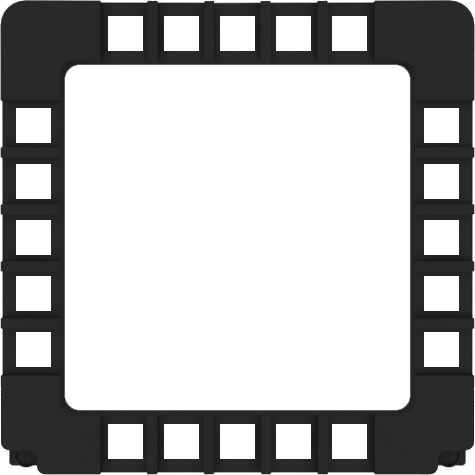
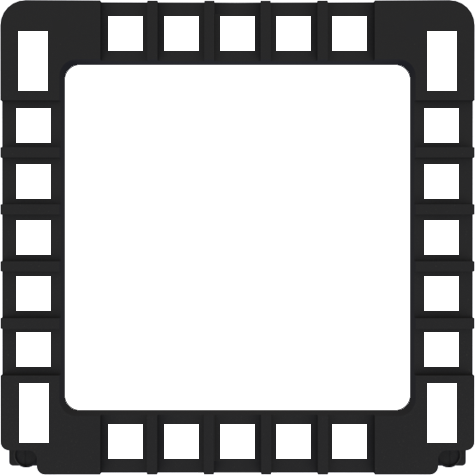
Falcon Interface - Added MFD Rockers

diff --git a/HeliosFalcon/Gauges/MFD/MFD.cs b/HeliosFalcon/Gauges/MFD/MFD.cs
@@ -47,6 +47,10 @@ namespace GadrocsWorkshop.Helios.Gauges.Falcon.MFD
 		private GaugeImage _buttonOSB18;
 		private GaugeImage _buttonOSB19;
 		private GaugeImage _buttonOSB20;
+		private GaugeImage _rockerGAIN;
+		private GaugeImage _rockerSYM;
+		private GaugeImage _rockerBRT;
+		private GaugeImage _rockerCON;
 
 		private HeliosTrigger _buttonOSB01Trigger;
 		private HeliosTrigger _buttonOSB02Trigger;
@@ -68,6 +72,12 @@ namespace GadrocsWorkshop.Helios.Gauges.Falcon.MFD
 		private HeliosTrigger _buttonOSB18Trigger;
 		private HeliosTrigger _buttonOSB19Trigger;
 		private HeliosTrigger _buttonOSB20Trigger;
+		private HeliosTrigger _rockerGAINUpTrigger;
+		private HeliosTrigger _rockerGAINDownTrigger;
+		private HeliosTrigger _rockerSYMUpTrigger;
+		private HeliosTrigger _rockerSYMDownTrigger;
+		private HeliosTrigger _rockerBRTUpTrigger;
+		private HeliosTrigger _rockerBRTDownTrigger;
 
 		Rect _rectButtonOSB01 = new Rect(107, 15, 37, 37);
 		Rect _rectButtonOSB02 = new Rect(163, 15, 37, 37);
@@ -89,6 +99,18 @@ namespace GadrocsWorkshop.Helios.Gauges.Falcon.MFD
 		Rect _rectButtonOSB18 = new Rect(15, 219, 37, 37);
 		Rect _rectButtonOSB19 = new Rect(15, 275, 37, 37);
 		Rect _rectButtonOSB20 = new Rect(15, 331, 37, 37);
+		Rect _rectRockerGAINUp = new Rect(11, 23, 45, 35);
+		Rect _rectRockerGAINCenter = new Rect(11, 23, 45, 75);
+		Rect _rectRockerGAINDown = new Rect(11, 63, 45, 35);
+		Rect _rectRockerSYMUp = new Rect(419, 23, 45, 35);
+		Rect _rectRockerSYMCenter = new Rect(419, 23, 45, 75);
+		Rect _rectRockerSYMDown = new Rect(419, 63, 45, 35);
+		Rect _rectRockerBRTUp = new Rect(11, 375, 45, 35);
+		Rect _rectRockerBRTCenter = new Rect(11, 375, 45, 75);
+		Rect _rectRockerBRTDown = new Rect(11, 415, 45, 35);
+		Rect _rectRockerCONUp = new Rect(419, 375, 45, 35);
+		Rect _rectRockerCONCenter = new Rect(419, 375, 45, 75);
+		Rect _rectRockerCONDown = new Rect(419, 415, 45, 35);
 
 		private const string _backplateOffImage = "{HeliosFalcon}/Gauges/MFD/mfd_backplate_off.xaml";
 		private const string _backplateDimImage = "{HeliosFalcon}/Gauges/MFD/mfd_backplate_dim.xaml";
@@ -96,6 +118,18 @@ namespace GadrocsWorkshop.Helios.Gauges.Falcon.MFD
 		private const string _faceplateImage = "{HeliosFalcon}/Gauges/MFD/mfd_faceplate.png";
 		private const string _buttonImage = "{HeliosFalcon}/Gauges/MFD/mfd_button.png";
 		private const string _buttonPressImage = "{HeliosFalcon}/Gauges/MFD/mfd_button_press.png";
+		private const string _rockerGAINUpImage = "{HeliosFalcon}/Gauges/MFD/mfd_rocker_gain_up.png";
+		private const string _rockerGAINCenterImage = "{HeliosFalcon}/Gauges/MFD/mfd_rocker_gain_center.png";
+		private const string _rockerGAINDownImage = "{HeliosFalcon}/Gauges/MFD/mfd_rocker_gain_down.png";
+		private const string _rockerSYMUpImage = "{HeliosFalcon}/Gauges/MFD/mfd_rocker_sym_up.png";
+		private const string _rockerSYMCenterImage = "{HeliosFalcon}/Gauges/MFD/mfd_rocker_sym_center.png";
+		private const string _rockerSYMDownImage = "{HeliosFalcon}/Gauges/MFD/mfd_rocker_sym_down.png";
+		private const string _rockerBRTUpImage = "{HeliosFalcon}/Gauges/MFD/mfd_rocker_brt_up.png";
+		private const string _rockerBRTCenterImage = "{HeliosFalcon}/Gauges/MFD/mfd_rocker_brt_center.png";
+		private const string _rockerBRTDownImage = "{HeliosFalcon}/Gauges/MFD/mfd_rocker_brt_down.png";
+		private const string _rockerCONUpImage = "{HeliosFalcon}/Gauges/MFD/mfd_rocker_con_up.png";
+		private const string _rockerCONCenterImage = "{HeliosFalcon}/Gauges/MFD/mfd_rocker_con_center.png";
+		private const string _rockerCONDownImage = "{HeliosFalcon}/Gauges/MFD/mfd_rocker_con_down.png";
 
 		private static Rect _rectBase = new Rect(0d, 0d, 475d, 475d);
 		private double _backlight;
@@ -186,6 +220,18 @@ namespace GadrocsWorkshop.Helios.Gauges.Falcon.MFD
 
 			_buttonOSB20 = new GaugeImage(_buttonImage, _rectButtonOSB20);
 			Components.Add(_buttonOSB20);
+
+			_rockerGAIN = new GaugeImage(_rockerGAINCenterImage, _rectRockerGAINCenter);
+			Components.Add(_rockerGAIN);
+
+			_rockerSYM = new GaugeImage(_rockerSYMCenterImage, _rectRockerSYMCenter);
+			Components.Add(_rockerSYM);
+
+			_rockerBRT = new GaugeImage(_rockerBRTCenterImage, _rectRockerBRTCenter);
+			Components.Add(_rockerBRT);
+
+			_rockerCON = new GaugeImage(_rockerCONCenterImage, _rectRockerCONCenter);
+			Components.Add(_rockerCON);
 		}
 
 		#endregion Components
@@ -194,65 +240,83 @@ namespace GadrocsWorkshop.Helios.Gauges.Falcon.MFD
 
 		private void AddActions()
 		{
-			_buttonOSB01Trigger = new HeliosTrigger(this, "", "", "Button OSB1 Pushed", "Fired when button OSB1 is pushed.", "Always returns true.", BindingValueUnits.Boolean);
+			_buttonOSB01Trigger = new HeliosTrigger(this, "", "", "Button OSB-1 Pushed", "Fired when button OSB-1 is pushed.", "Always returns true.", BindingValueUnits.Boolean);
 			Triggers.Add(_buttonOSB01Trigger);
 
-			_buttonOSB02Trigger = new HeliosTrigger(this, "", "", "Button OSB2 Pushed", "Fired when button OSB2 is pushed.", "Always returns true.", BindingValueUnits.Boolean);
+			_buttonOSB02Trigger = new HeliosTrigger(this, "", "", "Button OSB-2 Pushed", "Fired when button OSB-2 is pushed.", "Always returns true.", BindingValueUnits.Boolean);
 			Triggers.Add(_buttonOSB02Trigger);
 
-			_buttonOSB03Trigger = new HeliosTrigger(this, "", "", "Button OSB3 Pushed", "Fired when button OSB3 is pushed.", "Always returns true.", BindingValueUnits.Boolean);
+			_buttonOSB03Trigger = new HeliosTrigger(this, "", "", "Button OSB-3 Pushed", "Fired when button OSB-3 is pushed.", "Always returns true.", BindingValueUnits.Boolean);
 			Triggers.Add(_buttonOSB03Trigger);
 
-			_buttonOSB04Trigger = new HeliosTrigger(this, "", "", "Button OSB4 Pushed", "Fired when button OSB4 is pushed.", "Always returns true.", BindingValueUnits.Boolean);
+			_buttonOSB04Trigger = new HeliosTrigger(this, "", "", "Button OSB-4 Pushed", "Fired when button OSB-4 is pushed.", "Always returns true.", BindingValueUnits.Boolean);
 			Triggers.Add(_buttonOSB04Trigger);
 
-			_buttonOSB05Trigger = new HeliosTrigger(this, "", "", "Button OSB5 Pushed", "Fired when button OSB5 is pushed.", "Always returns true.", BindingValueUnits.Boolean);
+			_buttonOSB05Trigger = new HeliosTrigger(this, "", "", "Button OSB-5 Pushed", "Fired when button OSB-5 is pushed.", "Always returns true.", BindingValueUnits.Boolean);
 			Triggers.Add(_buttonOSB05Trigger);
 
-			_buttonOSB06Trigger = new HeliosTrigger(this, "", "", "Button OSB6 Pushed", "Fired when button OSB6 is pushed.", "Always returns true.", BindingValueUnits.Boolean);
+			_buttonOSB06Trigger = new HeliosTrigger(this, "", "", "Button OSB-6 Pushed", "Fired when button OSB-6 is pushed.", "Always returns true.", BindingValueUnits.Boolean);
 			Triggers.Add(_buttonOSB06Trigger);
 
-			_buttonOSB07Trigger = new HeliosTrigger(this, "", "", "Button OSB7 Pushed", "Fired when button OSB7 is pushed.", "Always returns true.", BindingValueUnits.Boolean);
+			_buttonOSB07Trigger = new HeliosTrigger(this, "", "", "Button OSB-7 Pushed", "Fired when button OSB-7 is pushed.", "Always returns true.", BindingValueUnits.Boolean);
 			Triggers.Add(_buttonOSB07Trigger);
 
-			_buttonOSB08Trigger = new HeliosTrigger(this, "", "", "Button OSB8 Pushed", "Fired when button OSB8 is pushed.", "Always returns true.", BindingValueUnits.Boolean);
+			_buttonOSB08Trigger = new HeliosTrigger(this, "", "", "Button OSB-8 Pushed", "Fired when button OSB-8 is pushed.", "Always returns true.", BindingValueUnits.Boolean);
 			Triggers.Add(_buttonOSB08Trigger);
 
-			_buttonOSB09Trigger = new HeliosTrigger(this, "", "", "Button OSB9 Pushed", "Fired when button OSB9 is pushed.", "Always returns true.", BindingValueUnits.Boolean);
+			_buttonOSB09Trigger = new HeliosTrigger(this, "", "", "Button OSB-9 Pushed", "Fired when button OSB-9 is pushed.", "Always returns true.", BindingValueUnits.Boolean);
 			Triggers.Add(_buttonOSB09Trigger);
 
-			_buttonOSB10Trigger = new HeliosTrigger(this, "", "", "Button OSB10 Pushed", "Fired when button OSB10 is pushed.", "Always returns true.", BindingValueUnits.Boolean);
+			_buttonOSB10Trigger = new HeliosTrigger(this, "", "", "Button OSB-10 Pushed", "Fired when button OSB-10 is pushed.", "Always returns true.", BindingValueUnits.Boolean);
 			Triggers.Add(_buttonOSB10Trigger);
 
-			_buttonOSB11Trigger = new HeliosTrigger(this, "", "", "Button OSB11 Pushed", "Fired when button OSB11 is pushed.", "Always returns true.", BindingValueUnits.Boolean);
+			_buttonOSB11Trigger = new HeliosTrigger(this, "", "", "Button OSB-11 Pushed", "Fired when button OSB-11 is pushed.", "Always returns true.", BindingValueUnits.Boolean);
 			Triggers.Add(_buttonOSB11Trigger);
 
-			_buttonOSB12Trigger = new HeliosTrigger(this, "", "", "Button OSB12 Pushed", "Fired when button OSB12 is pushed.", "Always returns true.", BindingValueUnits.Boolean);
+			_buttonOSB12Trigger = new HeliosTrigger(this, "", "", "Button OSB-12 Pushed", "Fired when button OSB-12 is pushed.", "Always returns true.", BindingValueUnits.Boolean);
 			Triggers.Add(_buttonOSB12Trigger);
 
-			_buttonOSB13Trigger = new HeliosTrigger(this, "", "", "Button OSB13 Pushed", "Fired when button OSB13 is pushed.", "Always returns true.", BindingValueUnits.Boolean);
+			_buttonOSB13Trigger = new HeliosTrigger(this, "", "", "Button OSB-13 Pushed", "Fired when button OSB-13 is pushed.", "Always returns true.", BindingValueUnits.Boolean);
 			Triggers.Add(_buttonOSB13Trigger);
 
-			_buttonOSB14Trigger = new HeliosTrigger(this, "", "", "Button OSB14 Pushed", "Fired when button OSB14 is pushed.", "Always returns true.", BindingValueUnits.Boolean);
+			_buttonOSB14Trigger = new HeliosTrigger(this, "", "", "Button OSB-14 Pushed", "Fired when button OSB-14 is pushed.", "Always returns true.", BindingValueUnits.Boolean);
 			Triggers.Add(_buttonOSB14Trigger);
 
-			_buttonOSB15Trigger = new HeliosTrigger(this, "", "", "Button OSB15 Pushed", "Fired when button OSB15 is pushed.", "Always returns true.", BindingValueUnits.Boolean);
+			_buttonOSB15Trigger = new HeliosTrigger(this, "", "", "Button OSB-15 Pushed", "Fired when button OSB-15 is pushed.", "Always returns true.", BindingValueUnits.Boolean);
 			Triggers.Add(_buttonOSB15Trigger);
 
-			_buttonOSB16Trigger = new HeliosTrigger(this, "", "", "Button OSB16 Pushed", "Fired when button OSB16 is pushed.", "Always returns true.", BindingValueUnits.Boolean);
+			_buttonOSB16Trigger = new HeliosTrigger(this, "", "", "Button OSB-16 Pushed", "Fired when button OSB-16 is pushed.", "Always returns true.", BindingValueUnits.Boolean);
 			Triggers.Add(_buttonOSB16Trigger);
 
-			_buttonOSB17Trigger = new HeliosTrigger(this, "", "", "Button OSB17 Pushed", "Fired when button OSB17 is pushed.", "Always returns true.", BindingValueUnits.Boolean);
+			_buttonOSB17Trigger = new HeliosTrigger(this, "", "", "Button OSB-17 Pushed", "Fired when button OSB-17 is pushed.", "Always returns true.", BindingValueUnits.Boolean);
 			Triggers.Add(_buttonOSB17Trigger);
 
-			_buttonOSB18Trigger = new HeliosTrigger(this, "", "", "Button OSB18 Pushed", "Fired when button OSB18 is pushed.", "Always returns true.", BindingValueUnits.Boolean);
+			_buttonOSB18Trigger = new HeliosTrigger(this, "", "", "Button OSB-18 Pushed", "Fired when button OSB-18 is pushed.", "Always returns true.", BindingValueUnits.Boolean);
 			Triggers.Add(_buttonOSB18Trigger);
 
-			_buttonOSB19Trigger = new HeliosTrigger(this, "", "", "Button OSB19 Pushed", "Fired when button OSB19 is pushed.", "Always returns true.", BindingValueUnits.Boolean);
+			_buttonOSB19Trigger = new HeliosTrigger(this, "", "", "Button OSB-19 Pushed", "Fired when button OSB-19 is pushed.", "Always returns true.", BindingValueUnits.Boolean);
 			Triggers.Add(_buttonOSB19Trigger);
 
-			_buttonOSB20Trigger = new HeliosTrigger(this, "", "", "Button OSB20 Pushed", "Fired when button OSB20 is pushed.", "Always returns true.", BindingValueUnits.Boolean);
+			_buttonOSB20Trigger = new HeliosTrigger(this, "", "", "Button OSB-20 Pushed", "Fired when button OSB-20 is pushed.", "Always returns true.", BindingValueUnits.Boolean);
 			Triggers.Add(_buttonOSB20Trigger);
+
+			_rockerGAINUpTrigger = new HeliosTrigger(this, "", "", "Rocker GAIN-UP Pushed", "Fired when rocker GAIN-UP is pushed.", "Always returns true.", BindingValueUnits.Boolean);
+			Triggers.Add(_rockerGAINUpTrigger);
+
+			_rockerGAINDownTrigger = new HeliosTrigger(this, "", "", "Rocker GAIN-DOWN Pushed", "Fired when rocker GAIN-DOWN is pushed.", "Always returns true.", BindingValueUnits.Boolean);
+			Triggers.Add(_rockerGAINDownTrigger);
+
+			_rockerSYMUpTrigger = new HeliosTrigger(this, "", "", "Rocker SYM-UP Pushed", "Fired when rocker SYM-UP is pushed.", "Always returns true.", BindingValueUnits.Boolean);
+			Triggers.Add(_rockerSYMUpTrigger);
+
+			_rockerSYMDownTrigger = new HeliosTrigger(this, "", "", "Rocker SYM=DOWN Pushed", "Fired when rocker SYM=DOWN is pushed.", "Always returns true.", BindingValueUnits.Boolean);
+			Triggers.Add(_rockerSYMDownTrigger);
+
+			_rockerBRTUpTrigger = new HeliosTrigger(this, "", "", "Rocker BRT-UP Pushed", "Fired when rocker BRT-UP is pushed.", "Always returns true.", BindingValueUnits.Boolean);
+			Triggers.Add(_rockerBRTUpTrigger);
+
+			_rockerBRTDownTrigger = new HeliosTrigger(this, "", "", "Rocker BRT-DOWN Pushed", "Fired when rocker BRT-DOWN is pushed.", "Always returns true.", BindingValueUnits.Boolean);
+			Triggers.Add(_rockerBRTDownTrigger);
 		}
 
 		#endregion Actions
@@ -463,6 +527,46 @@ namespace GadrocsWorkshop.Helios.Gauges.Falcon.MFD
 				_buttonOSB20.Image = _buttonPressImage;
 				_buttonOSB20Trigger.FireTrigger(new BindingValue(true));
 			}
+			if (_rectRockerGAINUp.Contains(point))
+			{
+				_rockerGAIN.Image = _rockerGAINUpImage;
+				_rockerGAINUpTrigger.FireTrigger(new BindingValue(true));
+			}
+			if (_rectRockerGAINDown.Contains(point))
+			{
+				_rockerGAIN.Image = _rockerGAINDownImage;
+				_rockerGAINDownTrigger.FireTrigger(new BindingValue(true));
+			}
+			if (_rectRockerSYMUp.Contains(point))
+			{
+				_rockerSYM.Image = _rockerSYMUpImage;
+				_rockerSYMUpTrigger.FireTrigger(new BindingValue(true));
+			}
+			if (_rectRockerSYMDown.Contains(point))
+			{
+				_rockerSYM.Image = _rockerSYMDownImage;
+				_rockerSYMDownTrigger.FireTrigger(new BindingValue(true));
+			}
+			if (_rectRockerBRTUp.Contains(point))
+			{
+				_rockerBRT.Image = _rockerBRTUpImage;
+				_rockerBRTUpTrigger.FireTrigger(new BindingValue(true));
+			}
+			if (_rectRockerBRTDown.Contains(point))
+			{
+				_rockerBRT.Image = _rockerBRTDownImage;
+				_rockerBRTDownTrigger.FireTrigger(new BindingValue(true));
+			}
+			if (_rectRockerCONUp.Contains(point))
+			{
+				_rockerCON.Image = _rockerCONUpImage;
+				// not implemented.
+			}
+			if (_rectRockerCONDown.Contains(point))
+			{
+				_rockerCON.Image = _rockerCONDownImage;
+				// not implemented.
+			}
 
 			Refresh();
 		}
@@ -489,6 +593,10 @@ namespace GadrocsWorkshop.Helios.Gauges.Falcon.MFD
 			_buttonOSB18.Image = _buttonImage;
 			_buttonOSB19.Image = _buttonImage;
 			_buttonOSB20.Image = _buttonImage;
+			_rockerGAIN.Image = _rockerGAINCenterImage;
+			_rockerSYM.Image = _rockerSYMCenterImage;
+			_rockerBRT.Image = _rockerBRTCenterImage;
+			_rockerCON.Image = _rockerCONCenterImage;
 
 			Refresh();
 		}
